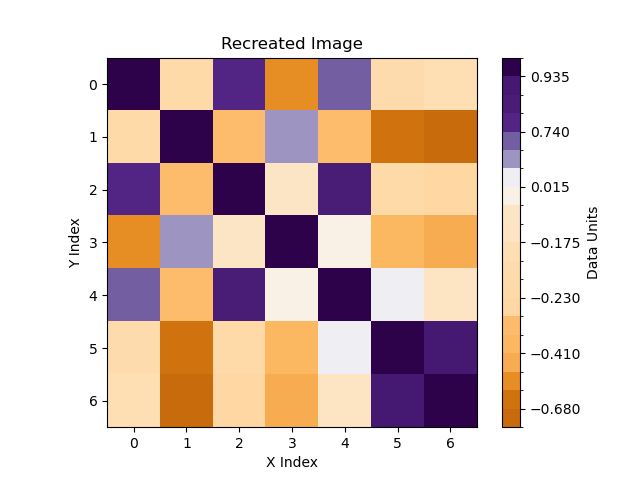
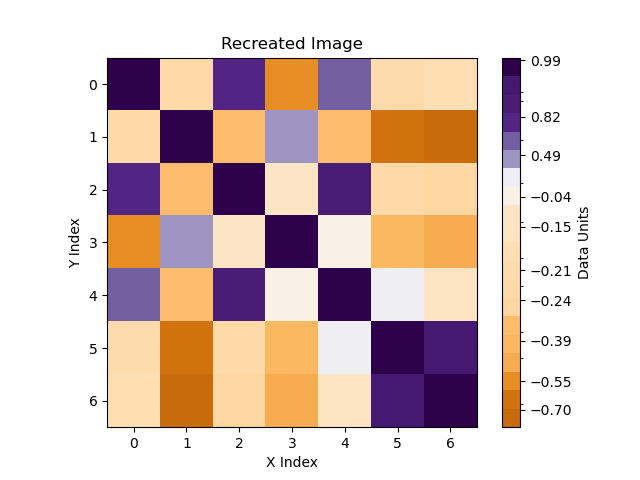
add support for categorical data

diff --git a/digitize_gridded_image.py b/digitize_gridded_image.py
@@ -221,8 +221,8 @@ if __name__ == "__main__":
     colorline = img[legend_box[1]:legend_box[3] + 1,
                     legend_box[0]:legend_box[2] + 1, :].squeeze()
     # map the pixel indices of the markers to the colorbar location
-    steps_plot_indicized = ((markers_pixel - markers_pixel.min())
-                            / (markers_pixel.max() - markers_pixel.min())
+    steps_plot_indicized = ((markers_pixel - legend_box[1])
+                            / (legend_box[3] - legend_box[1])
                             * (colorline.shape[0] - 1)).round().astype(int)
     # find the unique colors of the colorbar and preserve their order
     _, colorline_uniqind = np.unique(colorline, axis=0, return_index=True)
@@ -236,11 +236,19 @@ if __name__ == "__main__":
             # to the dominant color that was extracted in the previous step
             indices_unique[i, j], gix = \
                 project_point_on_line_3d(colorline_unique, cmed[i, j, :])
-            # since colors can repeat in a colorbar, we need to decid which pixel
-            # to map into data space - here we use the first one
-            indices_general[i, j] = np.flatnonzero(np.all(gix == colorline, axis=1)).min()
+            # since colors can repeat in a colorbar, we need to decide which pixel
+            # to map into data space - here we use the mean one
+            indices_general[i, j] = np.flatnonzero(np.all(gix == colorline, axis=1)).mean()
     # create an interpolant function that maps colorbar indices to the data space
-    pixel_to_value = CubicSpline(steps_plot_indicized, markers_data)
+    try:
+        pixel_to_value = CubicSpline(steps_plot_indicized, markers_data)
+        categorical = False
+    # catch the case where the markers are categorical
+    except ValueError:
+        pixel_to_value = lambda index: markers_data[
+                np.argmin(np.abs(steps_plot_indicized[:, None] - index.reshape(1, -1)),
+                          axis=0).reshape(args.ny, args.nx)]
+        categorical = True
     # convert the extracted colorbar indices to data space
     values = pixel_to_value(indices_general)
 
@@ -249,41 +257,56 @@ if __name__ == "__main__":
     if out_fmt == "npy":
         np.save(output_name, values)
     elif out_fmt == "txt":
-        np.savetxt(output_name, values)
+        np.savetxt(output_name, values, fmt="%s" if categorical else "%.18e")
 
     # recreate image if desired
     if recreate_image is not None:
+        # delayed imports
         import matplotlib.pyplot as plt
         from matplotlib.colors import ListedColormap, BoundaryNorm
         from matplotlib.cm import ScalarMappable
         # create function that maps data to original colorbar indices
-        if marker_data_sorted == 1:  # ascending
-            value_to_index = CubicSpline(markers_data, steps_plot_indicized)
-        else:  # descending
-            value_to_index = CubicSpline(np.flip(markers_data), np.flip(steps_plot_indicized))
-        # get the unique values and colors we extracted
-        unique_values = np.unique(values.ravel())
-        unique_colindex = value_to_index(unique_values).round().astype(int)
-        unique_colors = colorline[unique_colindex]
-        # make a discrete colormap using those values
-        if marker_data_sorted == 1:
-            borders = np.array([markers_data[0]]
-                               + ((unique_values[1:] + unique_values[:-1]) / 2).tolist()
-                               + [markers_data[-1]])
+        if categorical:
+            # reuse the step indices of our markers directly
+            # make a discrete colormap using those values
+            unique_colindex = steps_plot_indicized
+            borders = np.array([0]
+                               + ((unique_colindex[1:] + unique_colindex[:-1]) / 2).tolist()
+                               + [colorline.shape[0] - 1])
         else:
-            borders = np.array([markers_data[-1]]
-                               + ((unique_values[1:] + unique_values[:-1]) / 2).tolist()
-                               + [markers_data[0]])
+            if marker_data_sorted == 1:  # ascending
+                value_to_index = CubicSpline(markers_data, steps_plot_indicized)
+            else:  # descending
+                value_to_index = CubicSpline(np.flip(markers_data), np.flip(steps_plot_indicized))
+            # get the unique values and colors we extracted
+            unique_values = np.unique(values.ravel())
+            unique_colindex = value_to_index(unique_values).round().astype(int)
+            # make a discrete colormap using those values
+            if marker_data_sorted == 1:
+                borders = np.array([markers_data[0]]
+                                + ((unique_values[1:] + unique_values[:-1]) / 2).tolist()
+                                + [markers_data[-1]])
+            else:
+                borders = np.array([markers_data[-1]]
+                                + ((unique_values[1:] + unique_values[:-1]) / 2).tolist()
+                                + [markers_data[0]])
+        unique_colors = colorline[unique_colindex]
         cmap = ListedColormap(unique_colors / 255)
         norm = BoundaryNorm(borders, cmap.N)
         # start the figure
         plt.figure()
         # add the recreated data using the colors we estimated
-        plt.imshow(values, cmap=cmap, norm=norm)
+        plt.imshow(indices_general.astype(float) if categorical else values, cmap=cmap, norm=norm)
         # add the colorbar
-        plt.colorbar(mappable=ScalarMappable(norm=norm, cmap=cmap),
-                     ax=plt.gca(),
-                     label="Data Units")
+        cbar = plt.colorbar(mappable=ScalarMappable(norm=norm, cmap=cmap),
+                            ax=plt.gca(),
+                            label="Data Units")
+        if categorical:
+            cbar.set_ticks(steps_plot_indicized.astype(float), labels=markers_data)
+            cbar.ax.invert_yaxis()
+        else:
+            cbar.set_ticks(unique_values, labels=[""] * unique_values.size, minor=True)
+            cbar.set_ticks(unique_values[np.linspace(0, unique_values.size - 1, num=10, dtype=int)])
         # add info
         plt.title("Recreated Image")
         plt.xlabel("X Index")

diff --git a/README.md b/README.md
@@ -41,8 +41,8 @@ display the usage message:
 
 ## Example
 
-Suppose you want to get the data from a plot like the bottom right one one in this [Matplotlib example
-](https://matplotlib.org/3.8.2/gallery/images_contours_and_fields/image_annotated_heatmap.html),
+Suppose you want to get the data from a plot like the bottom right one one in this [Matplotlib
+example](https://matplotlib.org/3.8.2/gallery/images_contours_and_fields/image_annotated_heatmap.html),
 section *Some more complex heatmap examples*.
 We want to analyze each colored patch on the grid and then use the provided colormap to estimate what
 value was used to generate the color for the patch.
@@ -87,6 +87,25 @@ The data values we get (in `data_out.txt`) are:
 
 which are pretty close to the true values (which are kindly included in the Matplotlib
 example figure).
+
+This also works for categorical data, e.g.:
+
+    python digitize_gridded_image.py image_in.png "[117, 379, 313, 574]" "[335, 377, 335, 577]" "[390, 419, 448, 477, 506, 535, 564]" '["A", "B", "C", "D", "E", "F", "G"]' 6 6 data_out_cat.txt --recreate-image=image_out_cat.png
+
+Yielding the data
+
+|   |   |   |   |   |   |
+|---|---|---|---|---|---|
+| E | E | C | E | D | D |
+| C | F | D | E | C | C |
+| C | D | C | E | D | D |
+| G | E | D | D | D | B |
+| D | D | C | B | E | C |
+| C | C | E | B | E | B |
+
+and the image
+
+![Recreated image from categorical example](image_out_cat.png)
 
 Finally, the option `--ignore-blacks` is present for cases where the colored grid data is overlain
 by other elements like lines or text that make it harder for the algorithm to extract the dominant
